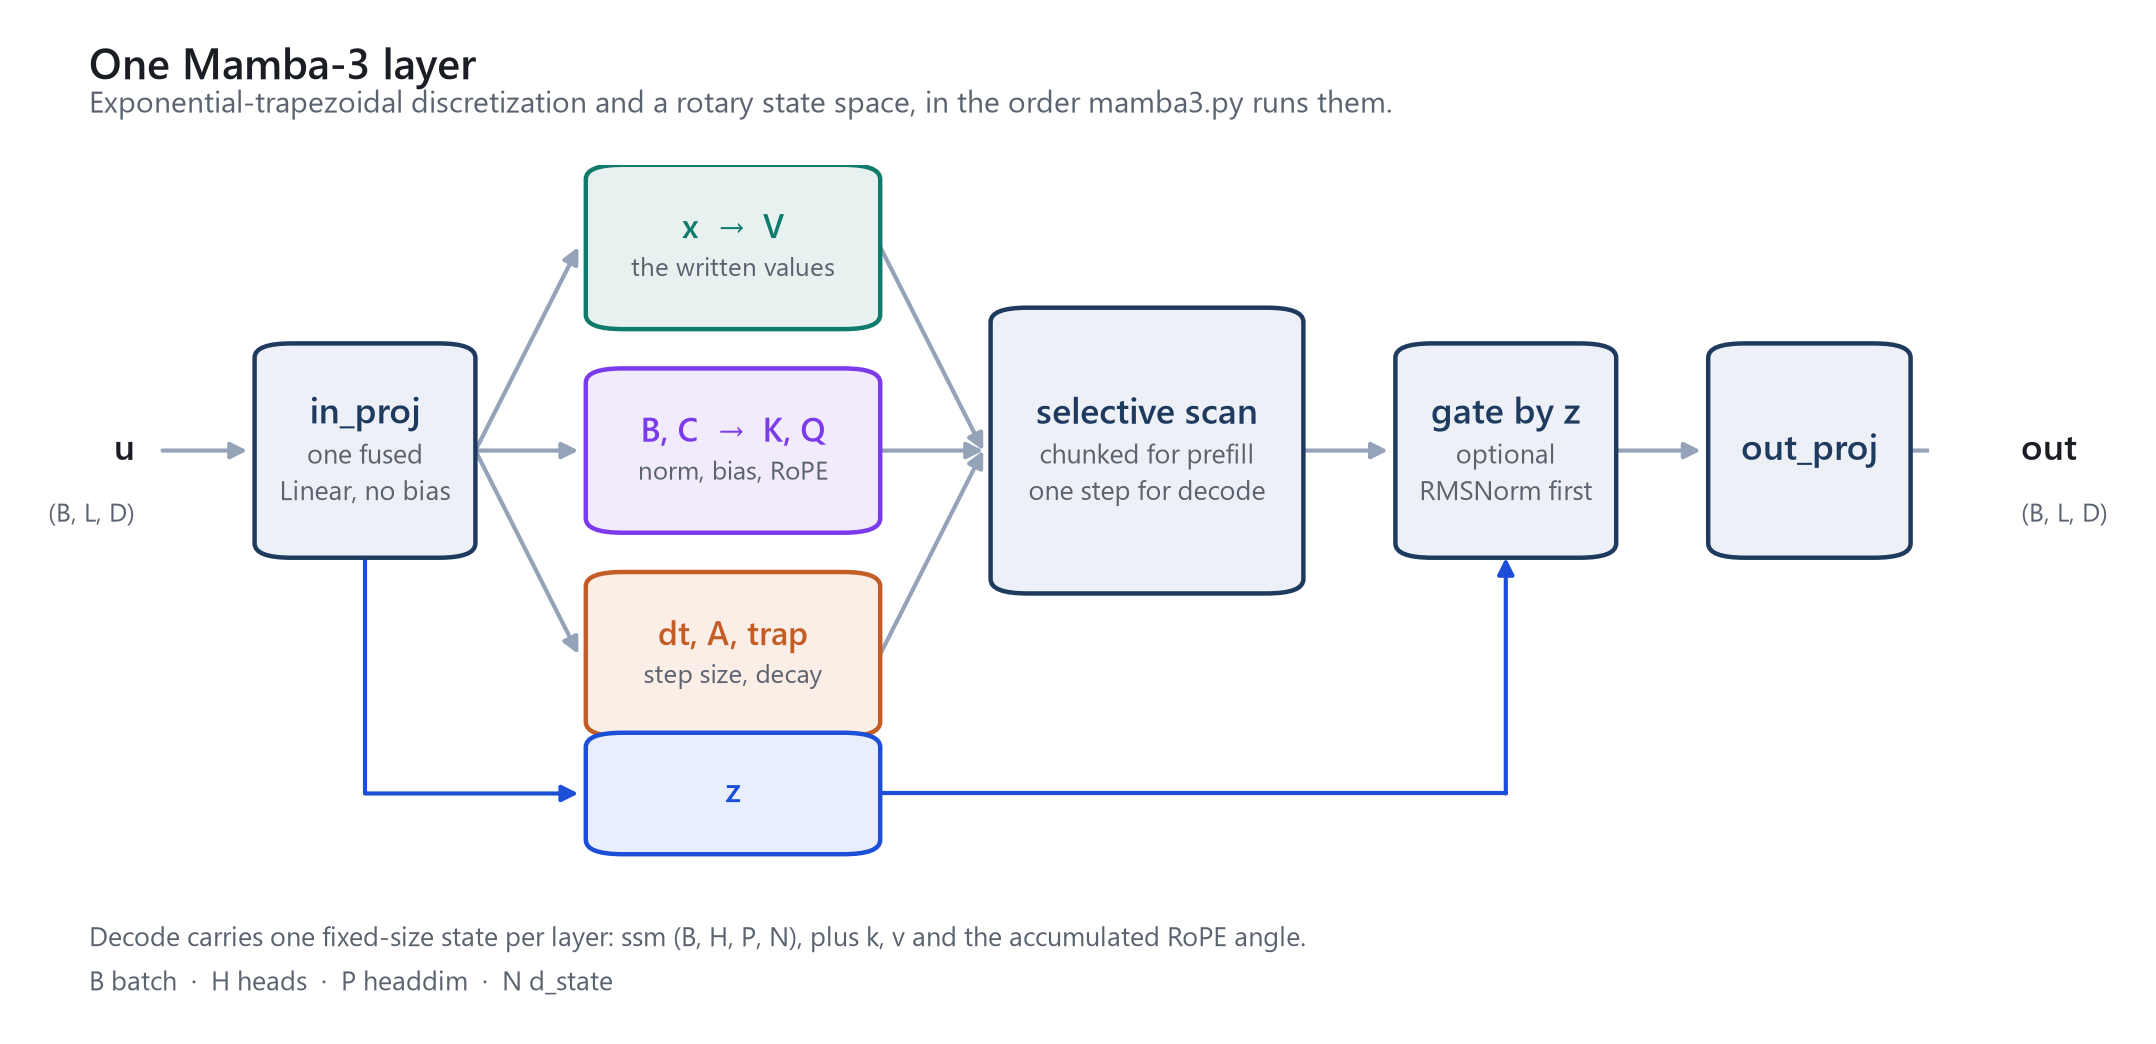
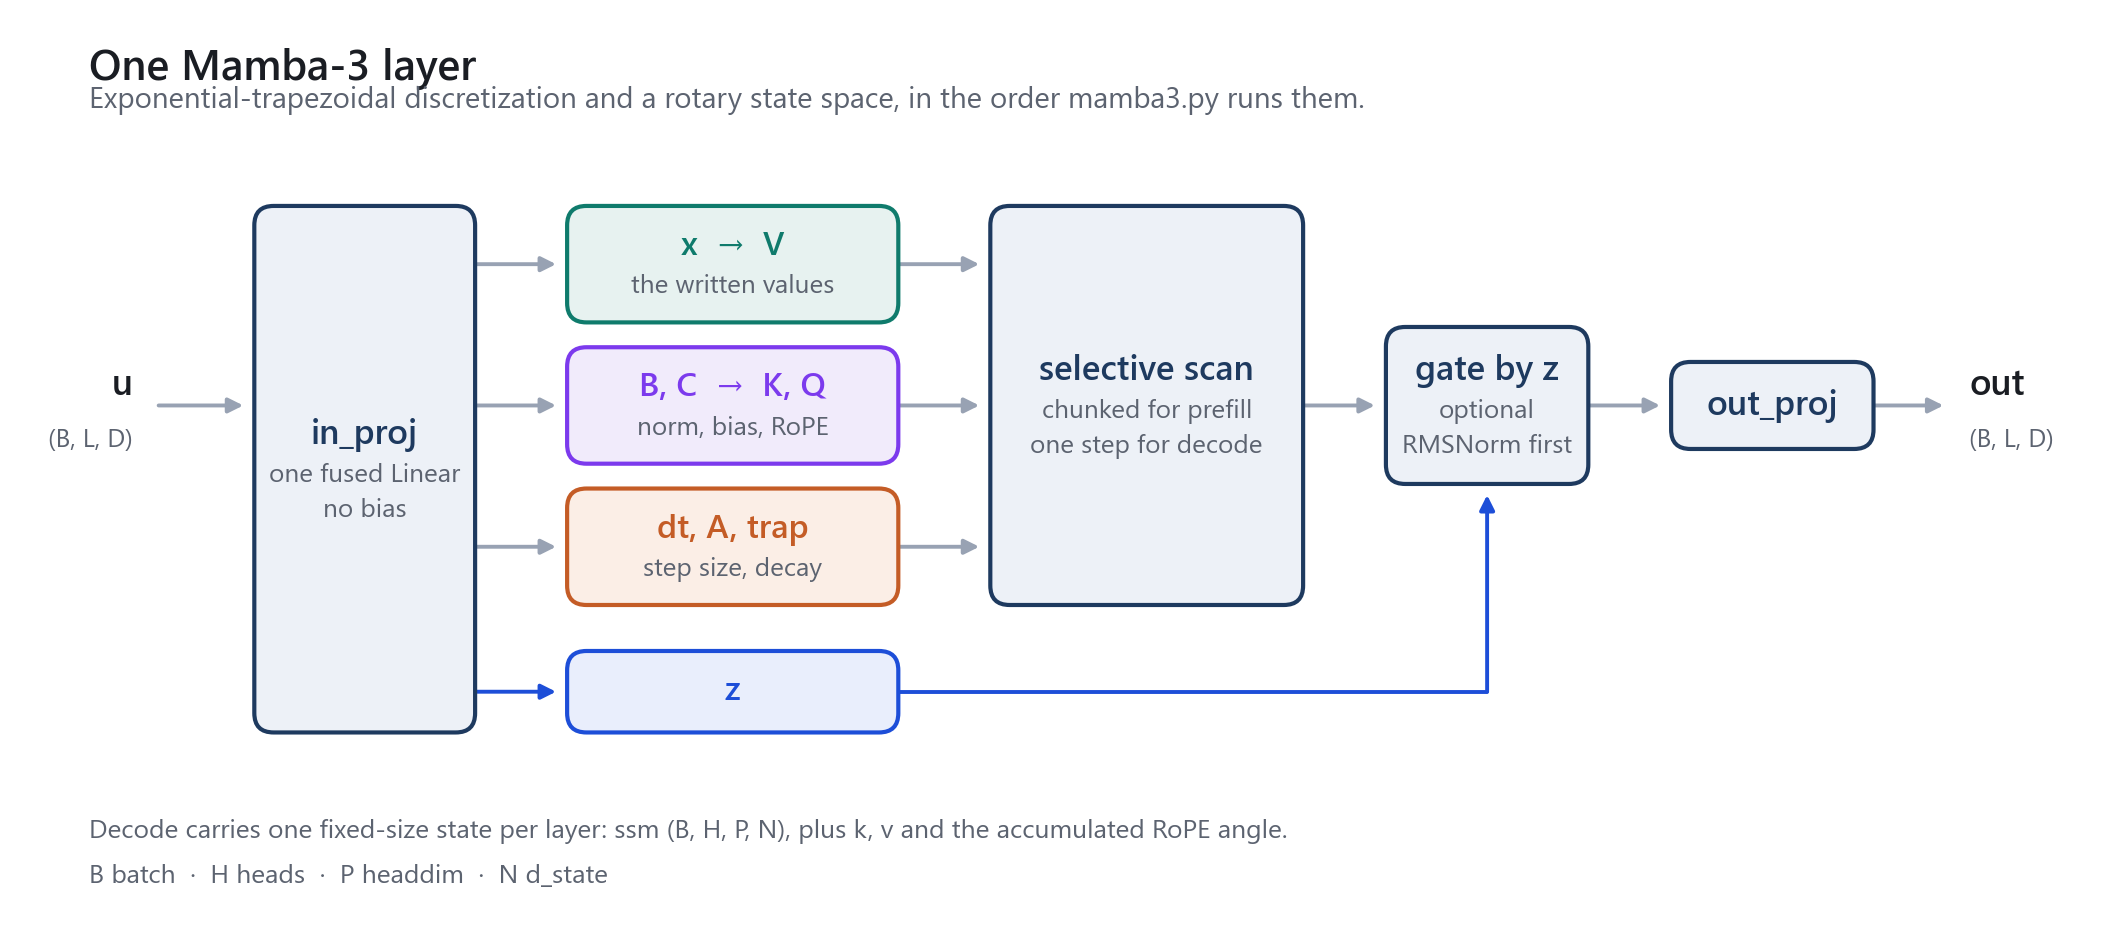
Redraw the architecture diagram on an isotropic canvas
Corner radii were specified in data units on axes whose x and y scales differed by 2.6x, so every rounded corner rendered as a stretched ellipse. Scale the y limit to the axes aspect so one unit is the same length on both axes.

Route every connector horizontally or vertically instead of fanning three diagonals into a single point: in_proj and the scan span the full height of the branch column, so each branch enters and leaves at its own height.

diff --git a/arch_figure.py b/arch_figure.py
@@ -23,7 +23,7 @@ CORAL = "#C45C26"
 NAVY = "#1E3A5F"
 BLUE = "#1D4ED8"
 PLUM = "#7C3AED"
-SLATE = "#94A3B8"
+WIRE = "#98A2B3"
 
 FILL = {
     NAVY: "#EDF1F7",
@@ -41,30 +41,33 @@ plt.rcParams.update({
     "savefig.pad_inches": 0.24,
 })
 
-FIG_W, FIG_H = 9.2, 4.7
-TOP, BOTTOM = 0.865, 0.105
-# The canvas is 0..100 in both directions, so a font size has to be converted
-# into vertical units before text can be stacked.
-U_PER_PT = 100.0 / (FIG_H * (TOP - BOTTOM) * 72.0)
+FIG_W, FIG_H = 9.2, 4.2
+TOP, BOTTOM = 0.872, 0.104
 
-SPINE = 60.0          # vertical centre of the main flow
-LANE = 12.0           # the z bypass runs along here
+# x runs 0..100. y is scaled so that one unit is the same physical length on
+# both axes — otherwise rounded corners come out as stretched ellipses.
+AX_W, AX_H = FIG_W, FIG_H * (TOP - BOTTOM)
+YMAX = 100.0 * AX_H / AX_W
+PT = 100.0 / (AX_W * 72.0)          # one typographic point, in canvas units
+RADIUS = 1.05                       # corner radius, same units
 
 
 def line_h(size: float) -> float:
-    return size * 1.34 * U_PER_PT
+    return size * 1.34 * PT
 
 
-def box(ax, x0, x1, height, color, title, *lines, center=SPINE,
-        title_size=13.0, line_size=9.8):
-    y0, y1 = center - height / 2, center + height / 2
+def block_h(title_size: float, n_lines: int, line_size: float, pad: float) -> float:
+    return line_h(title_size) + n_lines * line_h(line_size) + pad
+
+
+def box(ax, x0, x1, y0, y1, color, title, *lines, title_size=12.5, line_size=9.4):
     ax.add_patch(FancyBboxPatch(
-        (x0, y0), x1 - x0, height,
-        boxstyle="round,pad=0,rounding_size=2.0",
-        linewidth=1.6, edgecolor=color, facecolor=FILL.get(color, "white"), zorder=2,
+        (x0, y0), x1 - x0, y1 - y0,
+        boxstyle=f"round,pad=0,rounding_size={RADIUS}",
+        linewidth=1.5, edgecolor=color, facecolor=FILL.get(color, "white"), zorder=2,
     ))
     block = line_h(title_size) + len(lines) * line_h(line_size)
-    y = y1 - (height - block) / 2 - line_h(title_size) / 2
+    y = y1 - (y1 - y0 - block) / 2 - line_h(title_size) / 2
     ax.text((x0 + x1) / 2, y, title, ha="center", va="center", fontsize=title_size,
             fontweight="semibold", color=color, zorder=3)
     prev = title_size
@@ -75,17 +78,17 @@ def box(ax, x0, x1, height, color, title, *lines, center=SPINE,
                 color=MUTED, zorder=3)
 
 
-def arrow(ax, x0, y0, x1, y1, color=SLATE):
+def arrow(ax, x0, y0, x1, y1, color=WIRE):
     ax.add_patch(FancyArrowPatch(
-        (x0, y0), (x1, y1), arrowstyle="-|>", mutation_scale=12, linewidth=1.5,
-        color=color, shrinkA=0, shrinkB=0, zorder=1,
+        (x0, y0), (x1, y1),         arrowstyle="-|>", mutation_scale=11, linewidth=1.4,
+        color=color, shrinkA=0, shrinkB=0, zorder=1, clip_on=False,
     ))
 
 
-def elbow(ax, pts, color=SLATE):
-    """Polyline with an arrow head at the end."""
+def elbow(ax, pts, color=WIRE):
+    """Axis-aligned polyline, arrow head on the final segment."""
     for (x0, y0), (x1, y1) in zip(pts, pts[1:-1]):
-        ax.plot([x0, x1], [y0, y1], color=color, lw=1.5, zorder=1,
+        ax.plot([x0, x1], [y0, y1], color=color, lw=1.4, zorder=1,
                 solid_capstyle="round")
     arrow(ax, *pts[-2], *pts[-1], color=color)
 
@@ -93,58 +96,86 @@ def elbow(ax, pts, color=SLATE):
 def main() -> None:
     fig, ax = plt.subplots(figsize=(FIG_W, FIG_H))
     ax.set_xlim(0, 100)
-    ax.set_ylim(0, 100)
+    ax.set_ylim(0, YMAX)
     ax.axis("off")
     fig.subplots_adjust(left=0, right=1, top=TOP, bottom=BOTTOM)
 
-    ax.text(2.5, SPINE, "u", ha="right", va="center", fontsize=13.0,
-            fontweight="semibold", color=INK)
-    ax.text(2.5, SPINE - 9, "(B, L, D)", ha="right", va="center", fontsize=9.4,
-            color=MUTED)
-    arrow(ax, 4, SPINE, 8.6, SPINE)
-
-    box(ax, 9, 21, 30, NAVY, "in_proj", "one fused", "Linear, no bias")
-
     chips = [
-        (TEAL, "x  →  V", "the written values", 88.5),
-        (PLUM, "B, C  →  K, Q", "norm, bias, RoPE", 60.0),
-        (CORAL, "dt, A, trap", "step size, decay", 31.5),
+        (TEAL, "x  →  V", "the written values"),
+        (PLUM, "B, C  →  K, Q", "norm, bias, RoPE"),
+        (CORAL, "dt, A, trap", "step size, decay"),
     ]
-    for color, title, sub, cy in chips:
-        arrow(ax, 21, SPINE, 26.6, cy)
-        box(ax, 27, 43, 23, color, title, sub, center=cy, title_size=12.0,
-            line_size=9.4)
-        arrow(ax, 43, cy, 48.6, SPINE)
+    chip_h = block_h(12.0, 1, 9.4, 2.0)
+    chip_gap = 1.35
+    z_h = block_h(12.0, 0, 9.4, 2.0)
+    z_gap = 2.5
 
-    box(ax, 49, 66, 40, NAVY, "selective scan",
-        "chunked for prefill", "one step for decode")
-    arrow(ax, 66, SPINE, 70.6, SPINE)
+    # Centre the whole drawing vertically.
+    content = 3 * chip_h + 2 * chip_gap + z_gap + z_h
+    top = (YMAX + content) / 2
+    chips_bot = top - 3 * chip_h - 2 * chip_gap
+    z_top = chips_bot - z_gap
+    z_bot = z_top - z_h
+    spine = (top + chips_bot) / 2
 
-    box(ax, 71, 83, 30, NAVY, "gate by z", "optional", "RMSNorm first")
-    arrow(ax, 83, SPINE, 87.6, SPINE)
+    # Columns
+    X_IN = (9.0, 21.0)
+    X_CHIP = (26.0, 44.0)
+    X_SCAN = (49.0, 66.0)
+    X_GATE = (70.5, 81.5)
+    X_OUT = (86.0, 97.0)
 
-    box(ax, 88, 99, 30, NAVY, "out_proj")
-    arrow(ax, 99, SPINE, 103.6, SPINE)
-    ax.text(105, SPINE, "out", ha="left", va="center", fontsize=13.0,
+    ax.text(2.4, spine + 1.1, "u", ha="right", va="center", fontsize=13.0,
             fontweight="semibold", color=INK)
-    ax.text(105, SPINE - 9, "(B, L, D)", ha="left", va="center", fontsize=9.4,
+    ax.text(2.4, spine - 1.9, "(B, L, D)", ha="right", va="center", fontsize=9.2,
             color=MUTED)
+    arrow(ax, 3.8, spine, X_IN[0] - 0.6, spine)
 
-    # z leaves in_proj, bypasses the scan and meets the flow again at the gate.
-    box(ax, 27, 43, 17, BLUE, "z", center=LANE, title_size=12.0)
-    elbow(ax, [(15, 45), (15, LANE), (26.6, LANE)], color=BLUE)
-    elbow(ax, [(43, LANE), (77, LANE), (77, 45)], color=BLUE)
+    box(ax, *X_IN, z_bot, top, NAVY, "in_proj", "one fused Linear", "no bias")
+
+    for i, (color, title, sub) in enumerate(chips):
+        y1 = top - i * (chip_h + chip_gap)
+        y0 = y1 - chip_h
+        cy = (y0 + y1) / 2
+        arrow(ax, X_IN[1], cy, X_CHIP[0] - 0.6, cy)
+        box(ax, *X_CHIP, y0, y1, color, title, sub, title_size=12.0)
+        arrow(ax, X_CHIP[1], cy, X_SCAN[0] - 0.6, cy)
+
+    box(ax, *X_SCAN, chips_bot, top, NAVY, "selective scan",
+        "chunked for prefill", "one step for decode")
+    arrow(ax, X_SCAN[1], spine, X_GATE[0] - 0.6, spine)
+
+    gate_h = block_h(12.5, 2, 9.4, 2.2)
+    box(ax, *X_GATE, spine - gate_h / 2, spine + gate_h / 2, NAVY, "gate by z",
+        "optional", "RMSNorm first")
+    arrow(ax, X_GATE[1], spine, X_OUT[0] - 0.6, spine)
+
+    out_h = block_h(12.5, 0, 9.4, 2.2)
+    box(ax, *X_OUT, spine - out_h / 2, spine + out_h / 2, NAVY, "out_proj")
+    arrow(ax, X_OUT[1], spine, X_OUT[1] + 3.8, spine)
+    ax.text(X_OUT[1] + 5.2, spine + 1.1, "out", ha="left", va="center", fontsize=13.0,
+            fontweight="semibold", color=INK)
+    ax.text(X_OUT[1] + 5.2, spine - 1.9, "(B, L, D)", ha="left", va="center",
+            fontsize=9.2, color=MUTED)
+
+    # z leaves in_proj, bypasses the scan, and meets the flow again at the gate.
+    z_cy = (z_top + z_bot) / 2
+    gate_cx = (X_GATE[0] + X_GATE[1]) / 2
+    box(ax, *X_CHIP, z_bot, z_top, BLUE, "z", title_size=12.0)
+    arrow(ax, X_IN[1], z_cy, X_CHIP[0] - 0.6, z_cy, color=BLUE)
+    elbow(ax, [(X_CHIP[1], z_cy), (gate_cx, z_cy), (gate_cx, spine - gate_h / 2 - 0.6)],
+          color=BLUE)
 
     fig.text(0.0, 0.99, "One Mamba-3 layer", fontsize=15.5, fontweight="semibold",
              color=INK, va="top")
     fig.text(0.0, 0.945, "Exponential-trapezoidal discretization and a rotary state "
-                         "space, in the order mamba3.py runs them.", fontsize=10.8,
+                         "space, in the order mamba3.py runs them.", fontsize=10.6,
              color=MUTED, va="top")
-    fig.text(0.0, 0.055, "Decode carries one fixed-size state per layer: "
+    fig.text(0.0, 0.072, "Decode carries one fixed-size state per layer: "
                          "ssm (B, H, P, N), plus k, v and the accumulated RoPE angle.",
-             fontsize=9.6, color=MUTED, va="top")
-    fig.text(0.0, 0.008, "B batch  ·  H heads  ·  P headdim  ·  N d_state",
-             fontsize=9.6, color=MUTED, va="top")
+             fontsize=9.5, color=MUTED, va="top")
+    fig.text(0.0, 0.018, "B batch  ·  H heads  ·  P headdim  ·  N d_state",
+             fontsize=9.5, color=MUTED, va="top")
 
     fig.savefig(ASSETS / "architecture.png")
     plt.close(fig)
